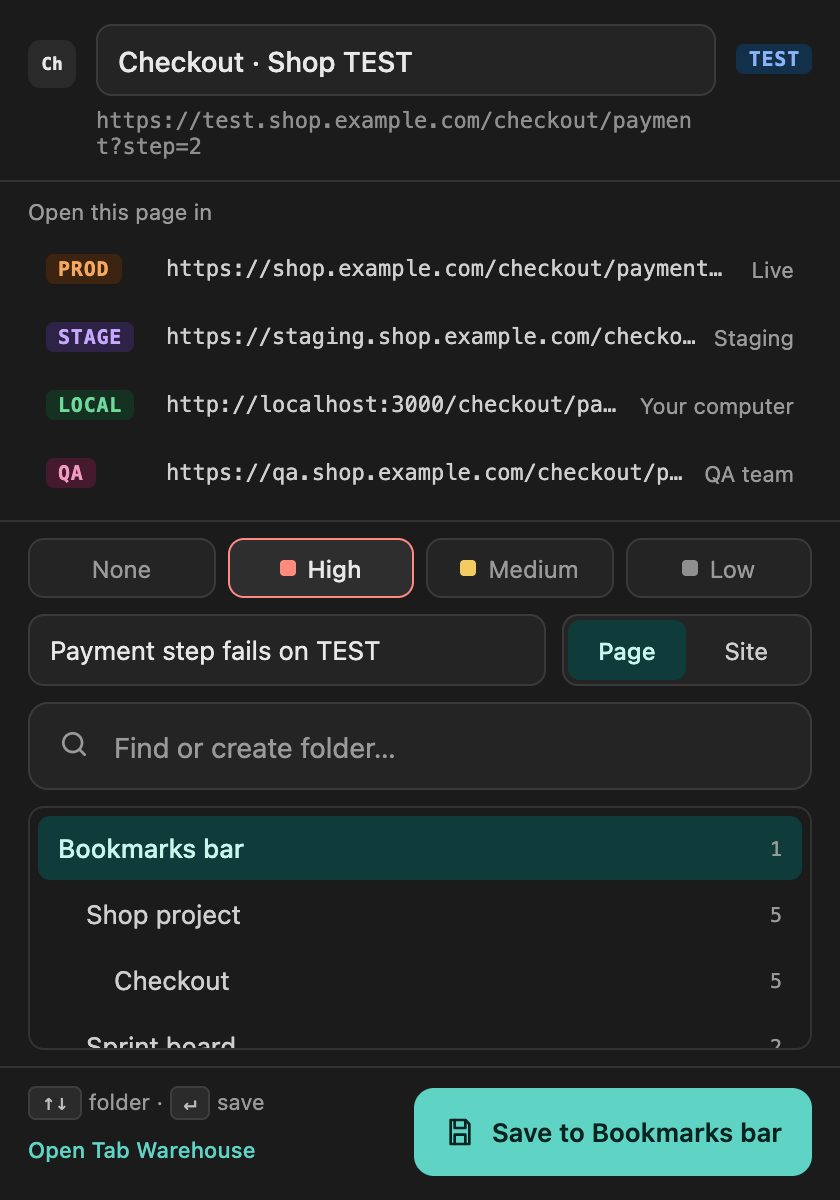
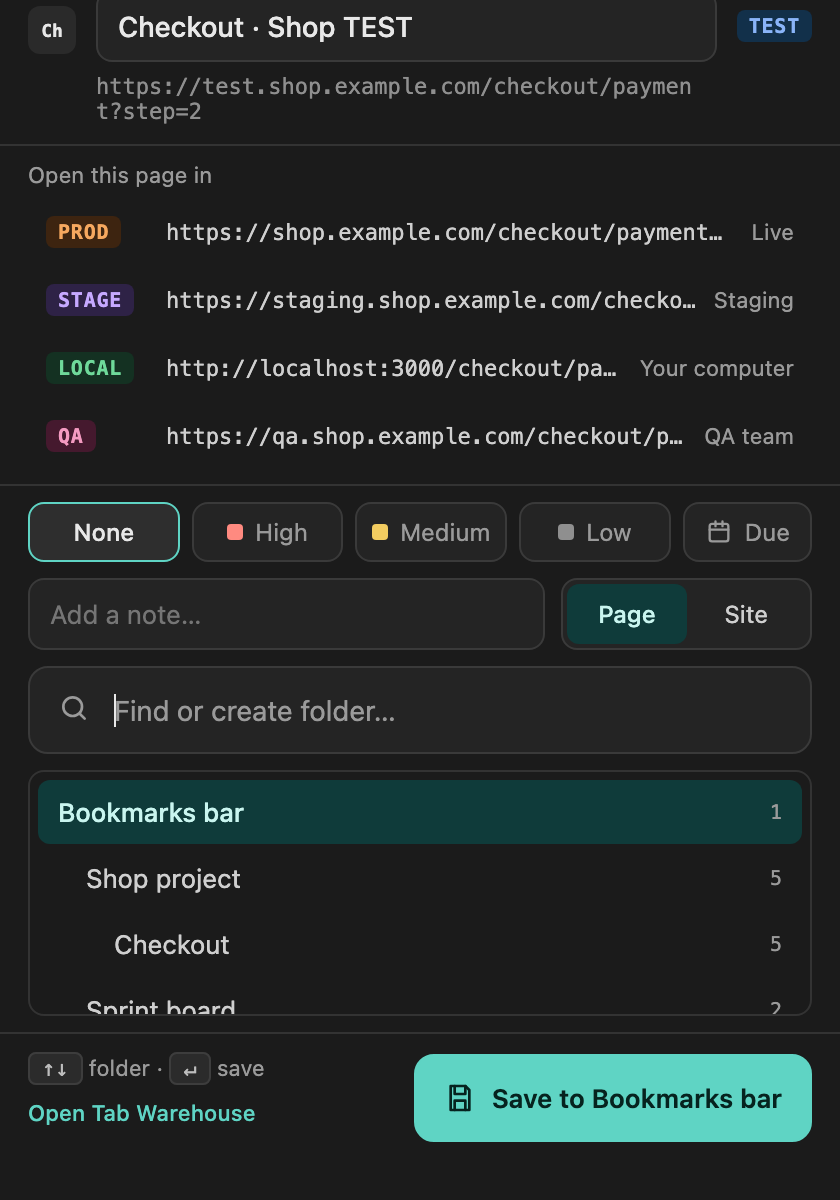
docs(site): due dates, quick save, Shortcuts tab and a Star button
Adds a Due dates feature block and screenshot, the Shortcuts Settings
tab, the new keys in the shortcuts table, a fresh popup screenshot with
the Due button, and a 'Star this project' button in the top bar (the
GitHub button hides at phone width). The demo stub gets
chrome.commands, getManifest and sample due dates.

diff --git a/site/index.html b/site/index.html
@@ -77,15 +77,23 @@
           <a href="#settings">Settings</a>
           <a href="#install">Install</a>
         </nav>
-        <a class="btn ghost sm" href="https://github.com/Sumonta056/tab-warehouse" rel="noopener">
-          <svg viewBox="0 0 24 24" width="16" height="16" aria-hidden="true">
-            <path
-              fill="currentColor"
-              d="M12 .5a11.5 11.5 0 0 0-3.64 22.41c.58.1.79-.25.79-.56v-2c-3.2.7-3.88-1.37-3.88-1.37-.53-1.33-1.28-1.69-1.28-1.69-1.05-.71.08-.7.08-.7 1.16.08 1.77 1.19 1.77 1.19 1.03 1.77 2.7 1.26 3.36.96.1-.75.4-1.26.73-1.55-2.56-.29-5.24-1.28-5.24-5.69 0-1.26.45-2.29 1.19-3.1-.12-.29-.52-1.46.11-3.05 0 0 .97-.31 3.17 1.18a11 11 0 0 1 5.77 0c2.2-1.49 3.17-1.18 3.17-1.18.63 1.59.23 2.76.11 3.05.74.81 1.19 1.84 1.19 3.1 0 4.42-2.69 5.39-5.25 5.68.41.36.78 1.06.78 2.14v3.17c0 .31.21.67.8.56A11.5 11.5 0 0 0 12 .5Z"
-            />
-          </svg>
-          GitHub
-        </a>
+        <div class="top-acts">
+          <a class="btn sm star" href="https://github.com/Sumonta056/tab-warehouse" rel="noopener" aria-label="Star this project on GitHub">
+            <svg viewBox="0 0 24 24" width="16" height="16" aria-hidden="true">
+              <path fill="currentColor" d="M12 2.5l2.94 5.96 6.56.95-4.75 4.63 1.12 6.54L12 17.5l-5.87 3.08 1.12-6.54L2.5 9.41l6.56-.95z" />
+            </svg>
+            Star this project
+          </a>
+          <a class="btn ghost sm gh" href="https://github.com/Sumonta056/tab-warehouse" rel="noopener">
+            <svg viewBox="0 0 24 24" width="16" height="16" aria-hidden="true">
+              <path
+                fill="currentColor"
+                d="M12 .5a11.5 11.5 0 0 0-3.64 22.41c.58.1.79-.25.79-.56v-2c-3.2.7-3.88-1.37-3.88-1.37-.53-1.33-1.28-1.69-1.28-1.69-1.05-.71.08-.7.08-.7 1.16.08 1.77 1.19 1.77 1.19 1.03 1.77 2.7 1.26 3.36.96.1-.75.4-1.26.73-1.55-2.56-.29-5.24-1.28-5.24-5.69 0-1.26.45-2.29 1.19-3.1-.12-.29-.52-1.46.11-3.05 0 0 .97-.31 3.17 1.18a11 11 0 0 1 5.77 0c2.2-1.49 3.17-1.18 3.17-1.18.63 1.59.23 2.76.11 3.05.74.81 1.19 1.84 1.19 3.1 0 4.42-2.69 5.39-5.25 5.68.41.36.78 1.06.78 2.14v3.17c0 .31.21.67.8.56A11.5 11.5 0 0 0 12 .5Z"
+              />
+            </svg>
+            GitHub
+          </a>
+        </div>
       </div>
     </header>
 
@@ -144,7 +152,7 @@
           <ul class="tries">
             <li>Open <b>Shop project</b> and switch to <b>Tag matrix</b></li>
             <li>Click <b>Board</b> and drag a card to another column</li>
-            <li>Press <kbd>⌘K</kbd> and type <b>checkout</b></li>
+            <li>Press <kbd>⌘⇧K</kbd> and type <b>checkout</b></li>
             <li>Open ⚙ Settings and change the accent color</li>
             <li>Save the page in the <b>Popup</b> tab, then look in the folder</li>
           </ul>
@@ -257,6 +265,30 @@
 
         <div class="wrap feature flip">
           <div class="txt">
+            <h3>Due dates</h3>
+            <p>Give a link a date, with a time if you want one. Links that you forgot to read turn red, so you can find them again.</p>
+            <ul>
+              <li>Set it in the popup, in the edit form or from the row menu</li>
+              <li>Red when overdue, highlighted in the next 7 days</li>
+              <li>Filter buttons: Overdue and Has due date</li>
+              <li>Also add to Google Calendar: Google sends the reminder</li>
+            </ul>
+            <a class="more" href="#demo" data-demo="newtab">Try it in the demo →</a>
+          </div>
+          <figure class="frame">
+            <img
+              src="screenshots/due.png"
+              alt="Learning pending folder: one link has a red Overdue chip, one a highlighted chip for a date in 2 days, one a plain chip for a later date"
+              loading="lazy"
+              width="1800"
+              height="1007"
+              data-zoom
+            />
+          </figure>
+        </div>
+
+        <div class="wrap feature">
+          <div class="txt">
             <h3>Board</h3>
             <p>
               See every folder at once, as a column of cards. Columns sit in lanes by category, or in one long row. Sections show as small headers inside each
@@ -282,7 +314,7 @@
           </figure>
         </div>
 
-        <div class="wrap feature">
+        <div class="wrap feature flip">
           <div class="txt">
             <h3>Tag matrix</h3>
             <p>
@@ -307,7 +339,7 @@
           </figure>
         </div>
 
-        <div class="wrap feature flip">
+        <div class="wrap feature">
           <div class="txt">
             <h3>Categories and drag and drop</h3>
             <p>
@@ -333,12 +365,12 @@
           </figure>
         </div>
 
-        <div class="wrap feature">
+        <div class="wrap feature flip">
           <div class="txt">
             <h3>Command palette and search</h3>
             <p>
-              Press <kbd>⌘K</kbd> and type. The palette finds links, folders and Settings tabs by title, address, folder, note or tag, and highlights the match.
-              <kbd>Enter</kbd> opens it, <kbd>⌘Enter</kbd> opens it in a background tab.
+              Press <kbd>⌘⇧K</kbd> and type. The palette finds links, folders and Settings tabs by title, address, folder, note or tag, and highlights the
+              match. <kbd>Enter</kbd> opens it, <kbd>⌘Enter</kbd> opens it in a background tab.
             </p>
             <ul>
               <li><kbd>/</kbd> searches every folder in the sidebar</li>
@@ -367,7 +399,8 @@
               <li>Save the page, or the whole site (<code>origin/</code>)</li>
               <li>Shows the tag and opens this page in your other versions</li>
               <li>Tells you if the URL is already saved</li>
-              <li>Add a priority and a short note</li>
+              <li>Add a priority, a short note and a due date</li>
+              <li>Press <kbd>⌘K</kbd> to save at once, without the popup</li>
             </ul>
             <ol class="flow" aria-label="How saving works">
               <li><span class="kbd-big">⌘⇧B</span><span>Open the popup on any page</span></li>
@@ -559,6 +592,10 @@
                 </tr>
                 <tr>
                   <td><kbd>⌘K</kbd> / <kbd>Ctrl+K</kbd></td>
+                  <td>Quick save, without the popup</td>
+                </tr>
+                <tr>
+                  <td><kbd>⌘⇧K</kbd> / <kbd>Ctrl+Shift+K</kbd></td>
                   <td>Open the command palette</td>
                 </tr>
                 <tr>

diff --git a/site/demo/demo-chrome.js b/site/demo/demo-chrome.js
@@ -110,10 +110,19 @@
     sideLook: { mode: 'image', color: '#141414', dark: 85, blur: 14 },
   });
 
+  const dayFromNow = (offset) => {
+    const d = new Date();
+    d.setDate(d.getDate() + offset);
+    return `${d.getFullYear()}-${String(d.getMonth() + 1).padStart(2, '0')}-${String(d.getDate()).padStart(2, '0')}`;
+  };
+
   const sampleLinkMeta = (ids) => ({
     [ids['chrome.bookmarks API']]: { note: 'Source of truth for every change', pri: 'high' },
     [ids['Manifest V3 overview']]: { pri: 'high' },
     [ids['HTML drag and drop API']]: { note: 'Same-parent move index quirk', pri: 'med' },
+    [ids['The Rust book']]: { note: 'Finish chapter 4 on ownership', due: dayFromNow(-3) },
+    [ids['web.dev: Learn performance']]: { due: `${dayFromNow(2)}T10:00` },
+    [ids['Refactoring UI']]: { due: dayFromNow(40) },
   });
 
   const fresh = () => {
@@ -305,10 +314,31 @@
     },
   };
 
+  const messages = [];
+  window.addEventListener('keydown', (e) => {
+    if (!(e.metaKey || e.ctrlKey) || !e.shiftKey || e.key.toLowerCase() !== 'k') return;
+    e.preventDefault();
+    for (const f of messages) f({ type: 'open-palette', tabId: 1 }, {}, () => {});
+  });
+
   window.chrome = {
     bookmarks,
     storage: { local, onChanged: listen('storage') },
-    runtime: { getURL: (p) => new URL(p.replace(/^\//, ''), location.href).href },
+    runtime: {
+      getURL: (p) => new URL(p.replace(/^\//, ''), location.href).href,
+      getManifest: () => ({ omnibox: { keyword: 'tw' } }),
+      onMessage: { addListener: (f) => messages.push(f) },
+    },
+    commands: {
+      async getAll() {
+        const mac = /Mac/.test(navigator.platform);
+        return [
+          { name: '_execute_action', description: '', shortcut: mac ? '⇧⌘B' : 'Ctrl+Shift+B' },
+          { name: 'quick-save', description: 'Save current tab without the popup', shortcut: mac ? '⌘K' : 'Ctrl+K' },
+          { name: 'palette', description: 'Open the command palette on Tab Warehouse', shortcut: mac ? '⇧⌘K' : 'Ctrl+Shift+K' },
+        ];
+      },
+    },
     tabs: {
       async create({ url }) {
         window.open(url, '_blank', 'noopener');
@@ -320,6 +350,9 @@
       },
       async query() {
         return [clone(S.activeTab)];
+      },
+      async getCurrent() {
+        return { id: 1 };
       },
     },
   };

diff --git a/site/site.css b/site/site.css
@@ -16,6 +16,7 @@
   --test: #8ab4f8;
   --stage: #c6a9ff;
   --local: #6fd99a;
+  --star: #f2cc60;
   --sans: -apple-system, BlinkMacSystemFont, 'Segoe UI', Roboto, Inter, 'Helvetica Neue', Arial, sans-serif;
   --mono: ui-monospace, 'JetBrains Mono', 'SF Mono', Menlo, Consolas, monospace;
   --r: 14px;
@@ -241,6 +242,15 @@ h3 {
   display: flex;
   gap: 4px;
   margin-left: auto;
+}
+
+.top-acts {
+  display: flex;
+  gap: 8px;
+}
+
+.btn.star svg {
+  color: var(--star);
 }
 
 .top-nav a {
@@ -1215,8 +1225,11 @@ h3 {
   .top-nav {
     display: none;
   }
-  .top-in .btn {
+  .top-acts {
     margin-left: auto;
+  }
+  .top-acts .gh {
+    display: none;
   }
   .hero {
     padding-top: 56px;

diff --git a/site/site.js b/site/site.js
@@ -63,6 +63,16 @@
         'Import merges and skips URLs you already have',
       ],
     },
+    {
+      name: 'Shortcuts',
+      img: 'settings-shortcuts.png',
+      text: 'Every key in one place.',
+      items: [
+        'Chrome shortcuts: the save popup, quick save and the command palette',
+        "Change shortcuts opens Chrome's own shortcut page",
+        'Keys on this page: search, j / k, Alt+↑ / ↓ and Esc',
+      ],
+    },
   ];
 
   const tabs = $('.set-tabs');

diff --git a/README.md b/README.md
@@ -109,9 +109,11 @@ Developers keep the same page open in many versions: live, test, staging and `lo
 
 ### Due dates
 
-- Give a link a due date, with a time if you want one. Set it in the popup when you save, in the edit form, or from the row menu.
+- Give a link a due date, with a time if you want one. Set it in the popup when you save (press **Due**), in the edit form, or from the row menu.
 - Overdue links show a red chip. The **Overdue** and **Has due date** filter buttons find them.
 - Turn on **Also add to Google Calendar** to open a filled-in Google Calendar event after you save. Google sends the reminder. The extension asks for no extra permission.
+
+![Learning pending folder with a red Overdue chip, a highlighted chip for a date in 2 days and a plain chip for a later date](site/screenshots/due.png)
 
 ![Docs folder with High, Medium and Other groups, a colored stripe and a note under the URL](site/screenshots/notes.png)
 
